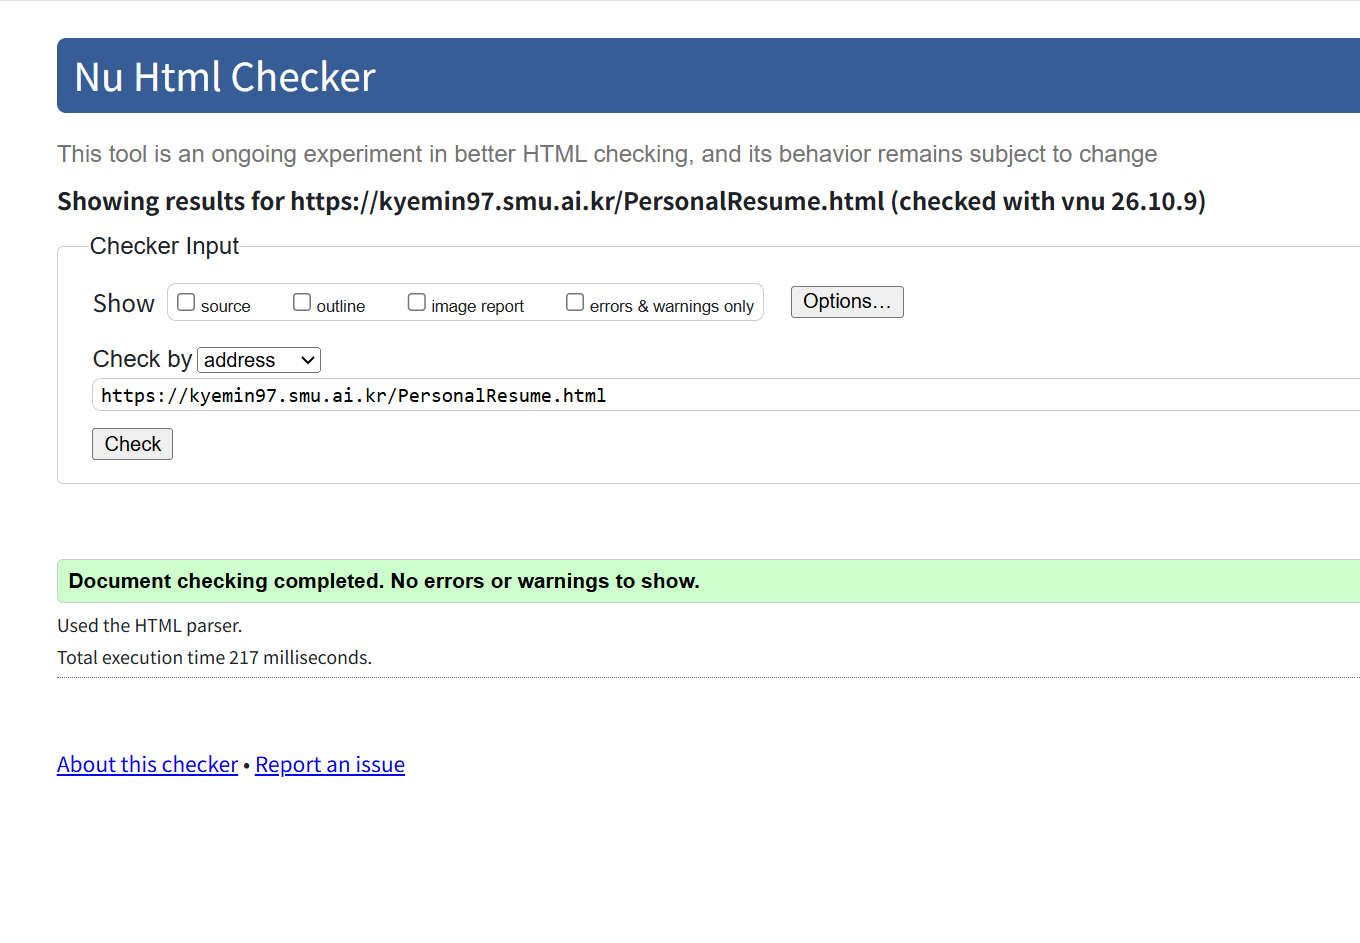
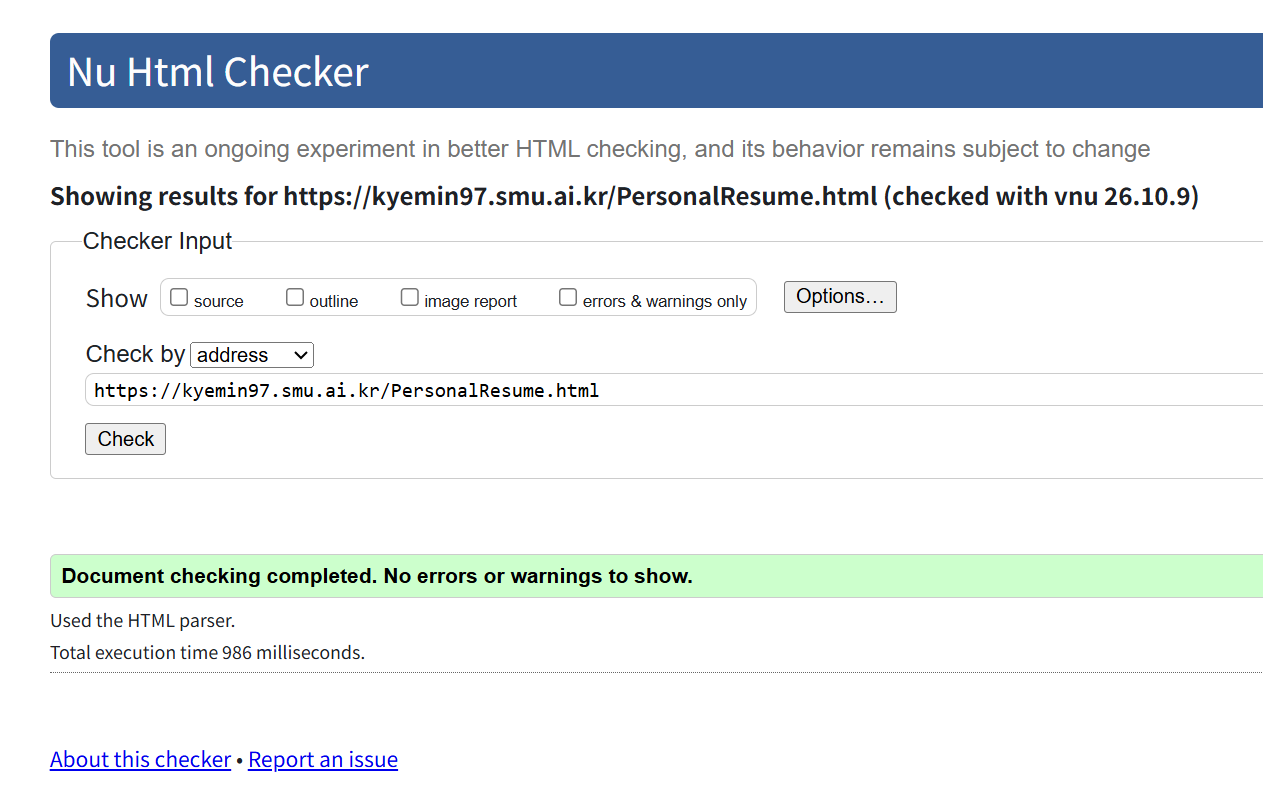
검수 이미지 변경

diff --git a/PersonalResume.html b/PersonalResume.html
@@ -6,7 +6,7 @@
     <meta name="viewport" content="width=device-width, initial-scale=1.0">
     <title>개인 이력서 - kyemin97</title>
     <!-- 외부 스타일시트 연결 (Q-CSS 충족) -->
-    <link rel="stylesheet" href="style.css?v=2">
+    <link rel="stylesheet" href="style.css">
 </head>
 <body>
     <!-- [A-06] 스크롤 진행률 표시바 -->
@@ -156,7 +156,7 @@
     </div>
 
     <!-- 자바스크립트 파일 연결 -->
-    <script src="script.js?v=2"></script>
+    <script src="script.js"></script>
 
 </body>
 </html>
